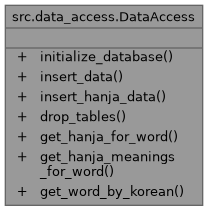
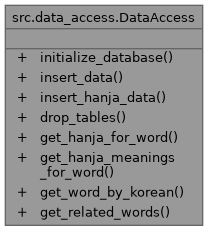
deploy: 5ca6d898f607078287fb59668e953a236ec74687

diff --git a/docs/navtreeindex0.js b/docs/navtreeindex0.js
@@ -3,22 +3,24 @@ var NAVTREEINDEX0 =
 "____init_____8py.html":[2,0,0,0],
 "annotated.html":[1,0],
 "classes.html":[1,1],
-"classsrc_1_1data__access_1_1DataAccess.html":[0,0,0,1,0],
 "classsrc_1_1data__access_1_1DataAccess.html":[1,0,0,0,0],
-"classsrc_1_1data__access_1_1DataAccess.html#a1cfc6893f66c213340355c6acaf1a3a3":[0,0,0,1,0,6],
-"classsrc_1_1data__access_1_1DataAccess.html#a1cfc6893f66c213340355c6acaf1a3a3":[1,0,0,0,0,6],
-"classsrc_1_1data__access_1_1DataAccess.html#a23e8da2b908674f31c01407620fe3728":[0,0,0,1,0,0],
+"classsrc_1_1data__access_1_1DataAccess.html":[0,0,0,1,0],
+"classsrc_1_1data__access_1_1DataAccess.html#a1cfc6893f66c213340355c6acaf1a3a3":[0,0,0,1,0,7],
+"classsrc_1_1data__access_1_1DataAccess.html#a1cfc6893f66c213340355c6acaf1a3a3":[1,0,0,0,0,7],
+"classsrc_1_1data__access_1_1DataAccess.html#a1f8eb51816b5631748421df5638689e4":[1,0,0,0,0,3],
+"classsrc_1_1data__access_1_1DataAccess.html#a1f8eb51816b5631748421df5638689e4":[0,0,0,1,0,3],
 "classsrc_1_1data__access_1_1DataAccess.html#a23e8da2b908674f31c01407620fe3728":[1,0,0,0,0,0],
-"classsrc_1_1data__access_1_1DataAccess.html#a3f2fa8212ead4b1885e8f26697b4b0b9":[0,0,0,1,0,3],
-"classsrc_1_1data__access_1_1DataAccess.html#a3f2fa8212ead4b1885e8f26697b4b0b9":[1,0,0,0,0,3],
-"classsrc_1_1data__access_1_1DataAccess.html#a4684f7cefabfbcb84b28be9e2ef74f64":[1,0,0,0,0,4],
-"classsrc_1_1data__access_1_1DataAccess.html#a4684f7cefabfbcb84b28be9e2ef74f64":[0,0,0,1,0,4],
-"classsrc_1_1data__access_1_1DataAccess.html#a4f4e7ab71ee7131858752bdfb4d0e2f1":[1,0,0,0,0,5],
-"classsrc_1_1data__access_1_1DataAccess.html#a4f4e7ab71ee7131858752bdfb4d0e2f1":[0,0,0,1,0,5],
-"classsrc_1_1data__access_1_1DataAccess.html#a6c59fef88695c46c9ee18f370e4346c6":[1,0,0,0,0,1],
+"classsrc_1_1data__access_1_1DataAccess.html#a23e8da2b908674f31c01407620fe3728":[0,0,0,1,0,0],
+"classsrc_1_1data__access_1_1DataAccess.html#a3f2fa8212ead4b1885e8f26697b4b0b9":[1,0,0,0,0,4],
+"classsrc_1_1data__access_1_1DataAccess.html#a3f2fa8212ead4b1885e8f26697b4b0b9":[0,0,0,1,0,4],
+"classsrc_1_1data__access_1_1DataAccess.html#a4684f7cefabfbcb84b28be9e2ef74f64":[1,0,0,0,0,5],
+"classsrc_1_1data__access_1_1DataAccess.html#a4684f7cefabfbcb84b28be9e2ef74f64":[0,0,0,1,0,5],
+"classsrc_1_1data__access_1_1DataAccess.html#a4f4e7ab71ee7131858752bdfb4d0e2f1":[1,0,0,0,0,6],
+"classsrc_1_1data__access_1_1DataAccess.html#a4f4e7ab71ee7131858752bdfb4d0e2f1":[0,0,0,1,0,6],
 "classsrc_1_1data__access_1_1DataAccess.html#a6c59fef88695c46c9ee18f370e4346c6":[0,0,0,1,0,1],
-"classsrc_1_1data__access_1_1DataAccess.html#ae726f5ea5aa704b34208db1cc915fa3a":[1,0,0,0,0,2],
+"classsrc_1_1data__access_1_1DataAccess.html#a6c59fef88695c46c9ee18f370e4346c6":[1,0,0,0,0,1],
 "classsrc_1_1data__access_1_1DataAccess.html#ae726f5ea5aa704b34208db1cc915fa3a":[0,0,0,1,0,2],
+"classsrc_1_1data__access_1_1DataAccess.html#ae726f5ea5aa704b34208db1cc915fa3a":[1,0,0,0,0,2],
 "classsrc_1_1data__processing_1_1DataProcessor.html":[1,0,0,1,0],
 "classsrc_1_1data__processing_1_1DataProcessor.html":[0,0,0,2,0],
 "classsrc_1_1data__processing_1_1DataProcessor.html#a3a6f7d8ef4426dfe180524a089fe5ea9":[0,0,0,2,0,7],
@@ -29,8 +31,8 @@ var NAVTREEINDEX0 =
 "classsrc_1_1data__processing_1_1DataProcessor.html#a4d8f294a1410020041fdd57ebca5c629":[0,0,0,2,0,1],
 "classsrc_1_1data__processing_1_1DataProcessor.html#a5ee76136c86c8978b38d4917ea51d145":[1,0,0,1,0,2],
 "classsrc_1_1data__processing_1_1DataProcessor.html#a5ee76136c86c8978b38d4917ea51d145":[0,0,0,2,0,2],
-"classsrc_1_1data__processing_1_1DataProcessor.html#a611dcfaf4a6c3129fc38bc01d659203f":[0,0,0,2,0,10],
 "classsrc_1_1data__processing_1_1DataProcessor.html#a611dcfaf4a6c3129fc38bc01d659203f":[1,0,0,1,0,10],
+"classsrc_1_1data__processing_1_1DataProcessor.html#a611dcfaf4a6c3129fc38bc01d659203f":[0,0,0,2,0,10],
 "classsrc_1_1data__processing_1_1DataProcessor.html#a8b10b2a476887fdf599456f74c582652":[1,0,0,1,0,5],
 "classsrc_1_1data__processing_1_1DataProcessor.html#a8b10b2a476887fdf599456f74c582652":[0,0,0,2,0,5],
 "classsrc_1_1data__processing_1_1DataProcessor.html#a8c28d40e8b07b8de8a765f8f5c9c18f8":[1,0,0,1,0,6],
@@ -39,24 +41,24 @@ var NAVTREEINDEX0 =
 "classsrc_1_1data__processing_1_1DataProcessor.html#a908b48e2667224a24a994f9f15819cdb":[1,0,0,1,0,12],
 "classsrc_1_1data__processing_1_1DataProcessor.html#aa387522f4d9d82eab51fad066c97c404":[1,0,0,1,0,3],
 "classsrc_1_1data__processing_1_1DataProcessor.html#aa387522f4d9d82eab51fad066c97c404":[0,0,0,2,0,3],
-"classsrc_1_1data__processing_1_1DataProcessor.html#aca8cb2dd99e8358d0c80ff0f04307193":[0,0,0,2,0,8],
 "classsrc_1_1data__processing_1_1DataProcessor.html#aca8cb2dd99e8358d0c80ff0f04307193":[1,0,0,1,0,8],
+"classsrc_1_1data__processing_1_1DataProcessor.html#aca8cb2dd99e8358d0c80ff0f04307193":[0,0,0,2,0,8],
 "classsrc_1_1data__processing_1_1DataProcessor.html#accedfc491786ec5de0b62d9f13ed1d2f":[0,0,0,2,0,0],
 "classsrc_1_1data__processing_1_1DataProcessor.html#accedfc491786ec5de0b62d9f13ed1d2f":[1,0,0,1,0,0],
-"classsrc_1_1data__processing_1_1DataProcessor.html#acee13daf812b03ebd4b468b5bd21d832":[1,0,0,1,0,11],
 "classsrc_1_1data__processing_1_1DataProcessor.html#acee13daf812b03ebd4b468b5bd21d832":[0,0,0,2,0,11],
+"classsrc_1_1data__processing_1_1DataProcessor.html#acee13daf812b03ebd4b468b5bd21d832":[1,0,0,1,0,11],
 "classsrc_1_1data__processing_1_1DataProcessor.html#ad0cff2f590f2a2398bf8bcc35c99cfc9":[0,0,0,2,0,4],
 "classsrc_1_1data__processing_1_1DataProcessor.html#ad0cff2f590f2a2398bf8bcc35c99cfc9":[1,0,0,1,0,4],
-"classsrc_1_1data__processing_1_1DataProcessor.html#af1d408b78a8a28b54b96e30bc3de1754":[1,0,0,1,0,9],
 "classsrc_1_1data__processing_1_1DataProcessor.html#af1d408b78a8a28b54b96e30bc3de1754":[0,0,0,2,0,9],
+"classsrc_1_1data__processing_1_1DataProcessor.html#af1d408b78a8a28b54b96e30bc3de1754":[1,0,0,1,0,9],
 "classsrc_1_1database_1_1DatabaseConnection.html":[1,0,0,2,0],
 "classsrc_1_1database_1_1DatabaseConnection.html":[0,0,0,3,0],
-"classsrc_1_1database_1_1DatabaseConnection.html#a00d6547240ef42d689d7825c7a5ad1ed":[0,0,0,3,0,1],
 "classsrc_1_1database_1_1DatabaseConnection.html#a00d6547240ef42d689d7825c7a5ad1ed":[1,0,0,2,0,1],
-"classsrc_1_1database_1_1DatabaseConnection.html#ab4b17edc08a871595f10ae5d2c519806":[0,0,0,3,0,0],
+"classsrc_1_1database_1_1DatabaseConnection.html#a00d6547240ef42d689d7825c7a5ad1ed":[0,0,0,3,0,1],
 "classsrc_1_1database_1_1DatabaseConnection.html#ab4b17edc08a871595f10ae5d2c519806":[1,0,0,2,0,0],
-"classsrc_1_1database_1_1DatabaseConnection.html#ace6735dee7ad91a77d0b120ae3cb3f87":[0,0,0,3,0,2],
+"classsrc_1_1database_1_1DatabaseConnection.html#ab4b17edc08a871595f10ae5d2c519806":[0,0,0,3,0,0],
 "classsrc_1_1database_1_1DatabaseConnection.html#ace6735dee7ad91a77d0b120ae3cb3f87":[1,0,0,2,0,2],
+"classsrc_1_1database_1_1DatabaseConnection.html#ace6735dee7ad91a77d0b120ae3cb3f87":[0,0,0,3,0,2],
 "config_8py.html":[2,0,0,1],
 "config_8py.html#a371a629caa526e7cbc3a025840bc1b50":[2,0,0,1,0],
 "config_8py.html#a9ac81f0c023a802f6daf87ac4b00080b":[2,0,0,1,1],

diff --git a/docs/classsrc_1_1data__access_1_1DataAccess-members.html b/docs/classsrc_1_1data__access_1_1DataAccess-members.html
@@ -105,10 +105,11 @@ $(document).ready(function(){initNavTree('classsrc_1_1data__access_1_1DataAccess
   <tr class="even"><td class="entry"><a class="el" href="classsrc_1_1data__access_1_1DataAccess.html#a23e8da2b908674f31c01407620fe3728">drop_tables</a>(self, cursor)</td><td class="entry"><a class="el" href="classsrc_1_1data__access_1_1DataAccess.html">src.data_access.DataAccess</a></td><td class="entry"></td></tr>
   <tr class="odd"><td class="entry"><a class="el" href="classsrc_1_1data__access_1_1DataAccess.html#a6c59fef88695c46c9ee18f370e4346c6">get_hanja_for_word</a>(self, word)</td><td class="entry"><a class="el" href="classsrc_1_1data__access_1_1DataAccess.html">src.data_access.DataAccess</a></td><td class="entry"></td></tr>
   <tr class="even"><td class="entry"><a class="el" href="classsrc_1_1data__access_1_1DataAccess.html#ae726f5ea5aa704b34208db1cc915fa3a">get_hanja_meanings_for_word</a>(self, word, hanja_list)</td><td class="entry"><a class="el" href="classsrc_1_1data__access_1_1DataAccess.html">src.data_access.DataAccess</a></td><td class="entry"></td></tr>
-  <tr class="odd"><td class="entry"><a class="el" href="classsrc_1_1data__access_1_1DataAccess.html#a3f2fa8212ead4b1885e8f26697b4b0b9">get_word_by_korean</a>(self, korean_word, language)</td><td class="entry"><a class="el" href="classsrc_1_1data__access_1_1DataAccess.html">src.data_access.DataAccess</a></td><td class="entry"></td></tr>
-  <tr class="even"><td class="entry"><a class="el" href="classsrc_1_1data__access_1_1DataAccess.html#a4684f7cefabfbcb84b28be9e2ef74f64">initialize_database</a>(self)</td><td class="entry"><a class="el" href="classsrc_1_1data__access_1_1DataAccess.html">src.data_access.DataAccess</a></td><td class="entry"></td></tr>
-  <tr class="odd"><td class="entry"><a class="el" href="classsrc_1_1data__access_1_1DataAccess.html#a4f4e7ab71ee7131858752bdfb4d0e2f1">insert_data</a>(self, processed_data)</td><td class="entry"><a class="el" href="classsrc_1_1data__access_1_1DataAccess.html">src.data_access.DataAccess</a></td><td class="entry"></td></tr>
-  <tr class="even"><td class="entry"><a class="el" href="classsrc_1_1data__access_1_1DataAccess.html#a1cfc6893f66c213340355c6acaf1a3a3">insert_hanja_data</a>(self, hanja_dict)</td><td class="entry"><a class="el" href="classsrc_1_1data__access_1_1DataAccess.html">src.data_access.DataAccess</a></td><td class="entry"></td></tr>
+  <tr class="odd"><td class="entry"><a class="el" href="classsrc_1_1data__access_1_1DataAccess.html#a1f8eb51816b5631748421df5638689e4">get_related_words</a>(self, hanja_character, language)</td><td class="entry"><a class="el" href="classsrc_1_1data__access_1_1DataAccess.html">src.data_access.DataAccess</a></td><td class="entry"></td></tr>
+  <tr class="even"><td class="entry"><a class="el" href="classsrc_1_1data__access_1_1DataAccess.html#a3f2fa8212ead4b1885e8f26697b4b0b9">get_word_by_korean</a>(self, korean_word, language)</td><td class="entry"><a class="el" href="classsrc_1_1data__access_1_1DataAccess.html">src.data_access.DataAccess</a></td><td class="entry"></td></tr>
+  <tr class="odd"><td class="entry"><a class="el" href="classsrc_1_1data__access_1_1DataAccess.html#a4684f7cefabfbcb84b28be9e2ef74f64">initialize_database</a>(self)</td><td class="entry"><a class="el" href="classsrc_1_1data__access_1_1DataAccess.html">src.data_access.DataAccess</a></td><td class="entry"></td></tr>
+  <tr class="even"><td class="entry"><a class="el" href="classsrc_1_1data__access_1_1DataAccess.html#a4f4e7ab71ee7131858752bdfb4d0e2f1">insert_data</a>(self, processed_data)</td><td class="entry"><a class="el" href="classsrc_1_1data__access_1_1DataAccess.html">src.data_access.DataAccess</a></td><td class="entry"></td></tr>
+  <tr class="odd"><td class="entry"><a class="el" href="classsrc_1_1data__access_1_1DataAccess.html#a1cfc6893f66c213340355c6acaf1a3a3">insert_hanja_data</a>(self, hanja_dict)</td><td class="entry"><a class="el" href="classsrc_1_1data__access_1_1DataAccess.html">src.data_access.DataAccess</a></td><td class="entry"></td></tr>
 </table></div><!-- contents -->
 </div><!-- doc-content -->
 <!-- start footer part -->

diff --git a/docs/classsrc_1_1data__access_1_1DataAccess.html b/docs/classsrc_1_1data__access_1_1DataAccess.html
@@ -110,7 +110,7 @@ Collaboration diagram for src.data_access.DataAccess:</div>
 <div class="dyncontent">
 <div class="center"><img src="classsrc_1_1data__access_1_1DataAccess__coll__graph.png" border="0" usemap="#asrc_8data__access_8DataAccess_coll__map" alt="Collaboration graph"/></div>
 <map name="asrc_8data__access_8DataAccess_coll__map" id="asrc_8data__access_8DataAccess_coll__map">
-<area shape="rect" title="A class to handle database operations for managing Korean words and their associated Hanja characters..." alt="" coords="5,5,203,205"/>
+<area shape="rect" title="A class to handle database operations for managing Korean words and their associated Hanja characters..." alt="" coords="5,5,203,225"/>
 </map>
 </div>
 <table class="memberdecls">
@@ -136,6 +136,8 @@ Public Member Functions</h2></td></tr>
 <tr class="separator:ae726f5ea5aa704b34208db1cc915fa3a"><td class="memSeparator" colspan="2">&#160;</td></tr>
 <tr class="memitem:a3f2fa8212ead4b1885e8f26697b4b0b9" id="r_a3f2fa8212ead4b1885e8f26697b4b0b9"><td class="memItemLeft" align="right" valign="top">&#160;</td><td class="memItemRight" valign="bottom"><a class="el" href="classsrc_1_1data__access_1_1DataAccess.html#a3f2fa8212ead4b1885e8f26697b4b0b9">get_word_by_korean</a> (self, korean_word, language)</td></tr>
 <tr class="separator:a3f2fa8212ead4b1885e8f26697b4b0b9"><td class="memSeparator" colspan="2">&#160;</td></tr>
+<tr class="memitem:a1f8eb51816b5631748421df5638689e4" id="r_a1f8eb51816b5631748421df5638689e4"><td class="memItemLeft" align="right" valign="top">&#160;</td><td class="memItemRight" valign="bottom"><a class="el" href="classsrc_1_1data__access_1_1DataAccess.html#a1f8eb51816b5631748421df5638689e4">get_related_words</a> (self, hanja_character, language)</td></tr>
+<tr class="separator:a1f8eb51816b5631748421df5638689e4"><td class="memSeparator" colspan="2">&#160;</td></tr>
 </table>
 <a name="details" id="details"></a><h2 class="groupheader">Detailed Description</h2>
 <div class="textblock"><p>A class to handle database operations for managing Korean words and their associated Hanja characters. </p>
@@ -253,6 +255,40 @@ Public Member Functions</h2></td></tr>
   </dd>
 </dl>
 <dl class="section return"><dt>Returns</dt><dd>a list of tuples containing Hanja character, Korean pronunciation, and meaning. Returns None if no data is found. </dd></dl>
+
+</div>
+</div>
+<a id="a1f8eb51816b5631748421df5638689e4" name="a1f8eb51816b5631748421df5638689e4"></a>
+<h2 class="memtitle"><span class="permalink"><a href="#a1f8eb51816b5631748421df5638689e4">&#9670;&#160;</a></span>get_related_words()</h2>
+
+<div class="memitem">
+<div class="memproto">
+      <table class="memname">
+        <tr>
+          <td class="memname">src.data_access.DataAccess.get_related_words </td>
+          <td>(</td>
+          <td class="paramtype">&#160;</td>
+          <td class="paramname"><em>self</em>, </td>
+        </tr>
+        <tr>
+          <td class="paramkey"></td>
+          <td></td>
+          <td class="paramtype">&#160;</td>
+          <td class="paramname"><em>hanja_character</em>, </td>
+        </tr>
+        <tr>
+          <td class="paramkey"></td>
+          <td></td>
+          <td class="paramtype">&#160;</td>
+          <td class="paramname"><em>language</em>&#160;</td>
+        </tr>
+        <tr>
+          <td></td>
+          <td>)</td>
+          <td></td><td></td>
+        </tr>
+      </table>
+</div><div class="memdoc">
 
 </div>
 </div>

diff --git a/docs/functions_func.html b/docs/functions_func.html
@@ -111,6 +111,7 @@ $(document).ready(function(){initNavTree('functions_func.html',''); initResizabl
 <li>extract_word()&#160;:&#160;<a class="el" href="classsrc_1_1data__processing_1_1DataProcessor.html#aca8cb2dd99e8358d0c80ff0f04307193">src.data_processing.DataProcessor</a></li>
 <li>get_hanja_for_word()&#160;:&#160;<a class="el" href="classsrc_1_1data__access_1_1DataAccess.html#a6c59fef88695c46c9ee18f370e4346c6">src.data_access.DataAccess</a></li>
 <li>get_hanja_meanings_for_word()&#160;:&#160;<a class="el" href="classsrc_1_1data__access_1_1DataAccess.html#ae726f5ea5aa704b34208db1cc915fa3a">src.data_access.DataAccess</a></li>
+<li>get_related_words()&#160;:&#160;<a class="el" href="classsrc_1_1data__access_1_1DataAccess.html#a1f8eb51816b5631748421df5638689e4">src.data_access.DataAccess</a></li>
 <li>get_word_by_korean()&#160;:&#160;<a class="el" href="classsrc_1_1data__access_1_1DataAccess.html#a3f2fa8212ead4b1885e8f26697b4b0b9">src.data_access.DataAccess</a></li>
 <li>initialize_database()&#160;:&#160;<a class="el" href="classsrc_1_1data__access_1_1DataAccess.html#a4684f7cefabfbcb84b28be9e2ef74f64">src.data_access.DataAccess</a></li>
 <li>insert_data()&#160;:&#160;<a class="el" href="classsrc_1_1data__access_1_1DataAccess.html#a4f4e7ab71ee7131858752bdfb4d0e2f1">src.data_access.DataAccess</a></li>

diff --git a/docs/functions.html b/docs/functions.html
@@ -113,6 +113,7 @@ $(document).ready(function(){initNavTree('functions.html',''); initResizable(); 
 <li>folder_path&#160;:&#160;<a class="el" href="classsrc_1_1data__processing_1_1DataProcessor.html#a3f151d5d1bb0d7794aacf774691d3d1f">src.data_processing.DataProcessor</a></li>
 <li>get_hanja_for_word()&#160;:&#160;<a class="el" href="classsrc_1_1data__access_1_1DataAccess.html#a6c59fef88695c46c9ee18f370e4346c6">src.data_access.DataAccess</a></li>
 <li>get_hanja_meanings_for_word()&#160;:&#160;<a class="el" href="classsrc_1_1data__access_1_1DataAccess.html#ae726f5ea5aa704b34208db1cc915fa3a">src.data_access.DataAccess</a></li>
+<li>get_related_words()&#160;:&#160;<a class="el" href="classsrc_1_1data__access_1_1DataAccess.html#a1f8eb51816b5631748421df5638689e4">src.data_access.DataAccess</a></li>
 <li>get_word_by_korean()&#160;:&#160;<a class="el" href="classsrc_1_1data__access_1_1DataAccess.html#a3f2fa8212ead4b1885e8f26697b4b0b9">src.data_access.DataAccess</a></li>
 <li>initialize_database()&#160;:&#160;<a class="el" href="classsrc_1_1data__access_1_1DataAccess.html#a4684f7cefabfbcb84b28be9e2ef74f64">src.data_access.DataAccess</a></li>
 <li>insert_data()&#160;:&#160;<a class="el" href="classsrc_1_1data__access_1_1DataAccess.html#a4f4e7ab71ee7131858752bdfb4d0e2f1">src.data_access.DataAccess</a></li>

diff --git a/docs/search/all_6.js b/docs/search/all_6.js
@@ -2,5 +2,6 @@ var searchData=
 [
   ['get_5fhanja_5ffor_5fword_0',['get_hanja_for_word',['../classsrc_1_1data__access_1_1DataAccess.html#a6c59fef88695c46c9ee18f370e4346c6',1,'src::data_access::DataAccess']]],
   ['get_5fhanja_5fmeanings_5ffor_5fword_1',['get_hanja_meanings_for_word',['../classsrc_1_1data__access_1_1DataAccess.html#ae726f5ea5aa704b34208db1cc915fa3a',1,'src::data_access::DataAccess']]],
-  ['get_5fword_5fby_5fkorean_2',['get_word_by_korean',['../classsrc_1_1data__access_1_1DataAccess.html#a3f2fa8212ead4b1885e8f26697b4b0b9',1,'src::data_access::DataAccess']]]
+  ['get_5frelated_5fwords_2',['get_related_words',['../classsrc_1_1data__access_1_1DataAccess.html#a1f8eb51816b5631748421df5638689e4',1,'src::data_access::DataAccess']]],
+  ['get_5fword_5fby_5fkorean_3',['get_word_by_korean',['../classsrc_1_1data__access_1_1DataAccess.html#a3f2fa8212ead4b1885e8f26697b4b0b9',1,'src::data_access::DataAccess']]]
 ];

diff --git a/docs/search/functions_3.js b/docs/search/functions_3.js
@@ -2,5 +2,6 @@ var searchData=
 [
   ['get_5fhanja_5ffor_5fword_0',['get_hanja_for_word',['../classsrc_1_1data__access_1_1DataAccess.html#a6c59fef88695c46c9ee18f370e4346c6',1,'src::data_access::DataAccess']]],
   ['get_5fhanja_5fmeanings_5ffor_5fword_1',['get_hanja_meanings_for_word',['../classsrc_1_1data__access_1_1DataAccess.html#ae726f5ea5aa704b34208db1cc915fa3a',1,'src::data_access::DataAccess']]],
-  ['get_5fword_5fby_5fkorean_2',['get_word_by_korean',['../classsrc_1_1data__access_1_1DataAccess.html#a3f2fa8212ead4b1885e8f26697b4b0b9',1,'src::data_access::DataAccess']]]
+  ['get_5frelated_5fwords_2',['get_related_words',['../classsrc_1_1data__access_1_1DataAccess.html#a1f8eb51816b5631748421df5638689e4',1,'src::data_access::DataAccess']]],
+  ['get_5fword_5fby_5fkorean_3',['get_word_by_korean',['../classsrc_1_1data__access_1_1DataAccess.html#a3f2fa8212ead4b1885e8f26697b4b0b9',1,'src::data_access::DataAccess']]]
 ];

diff --git a/docs/classsrc_1_1data__access_1_1DataAccess.js b/docs/classsrc_1_1data__access_1_1DataAccess.js
@@ -3,6 +3,7 @@ var classsrc_1_1data__access_1_1DataAccess =
     [ "drop_tables", "classsrc_1_1data__access_1_1DataAccess.html#a23e8da2b908674f31c01407620fe3728", null ],
     [ "get_hanja_for_word", "classsrc_1_1data__access_1_1DataAccess.html#a6c59fef88695c46c9ee18f370e4346c6", null ],
     [ "get_hanja_meanings_for_word", "classsrc_1_1data__access_1_1DataAccess.html#ae726f5ea5aa704b34208db1cc915fa3a", null ],
+    [ "get_related_words", "classsrc_1_1data__access_1_1DataAccess.html#a1f8eb51816b5631748421df5638689e4", null ],
     [ "get_word_by_korean", "classsrc_1_1data__access_1_1DataAccess.html#a3f2fa8212ead4b1885e8f26697b4b0b9", null ],
     [ "initialize_database", "classsrc_1_1data__access_1_1DataAccess.html#a4684f7cefabfbcb84b28be9e2ef74f64", null ],
     [ "insert_data", "classsrc_1_1data__access_1_1DataAccess.html#a4f4e7ab71ee7131858752bdfb4d0e2f1", null ],
